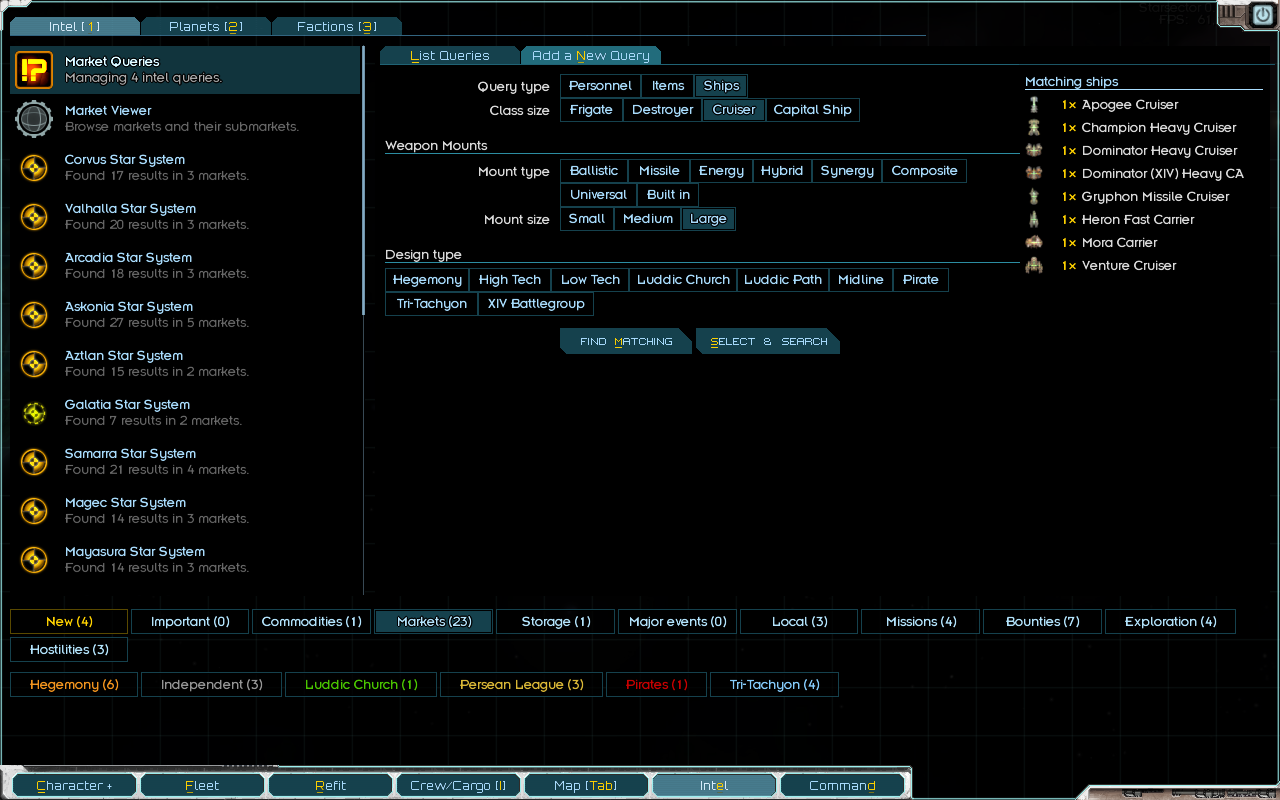
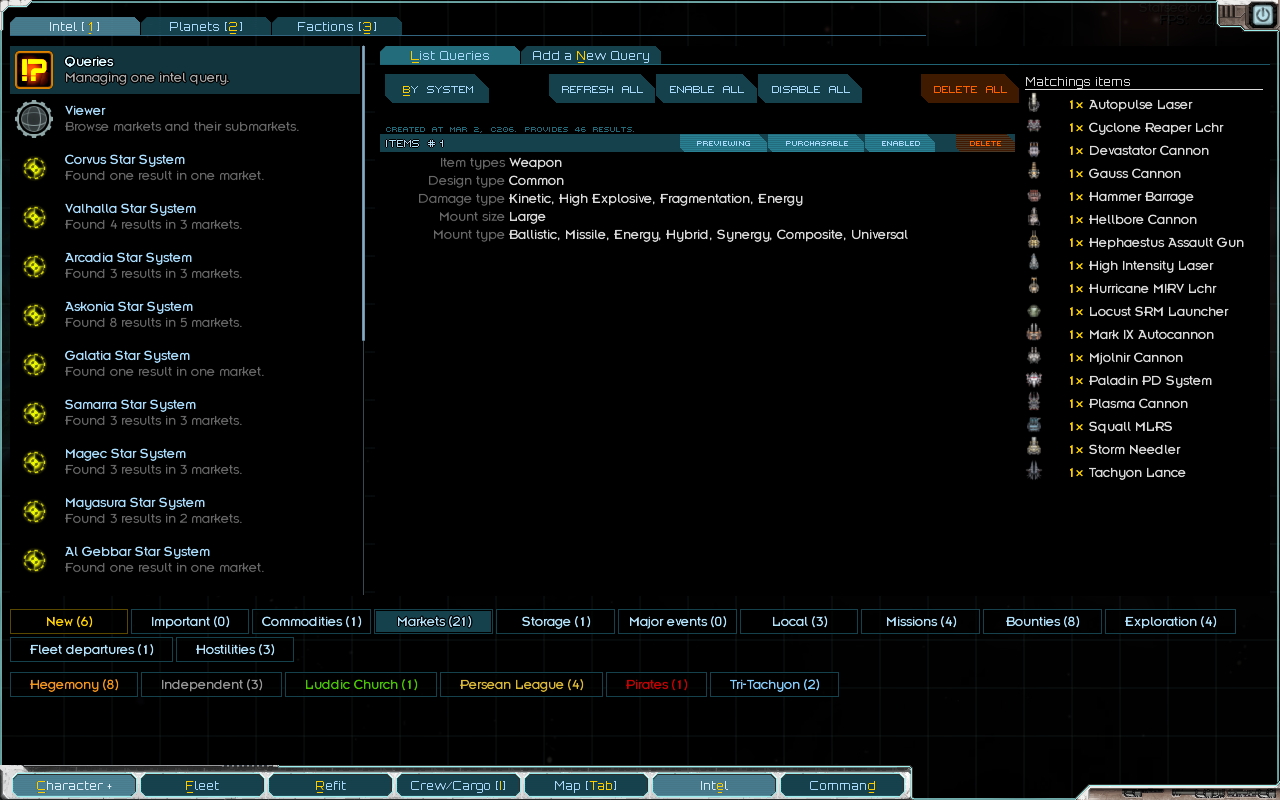
rc13

diff --git a/src/stelnet/board/query/view/list/QueryControls.java b/src/stelnet/board/query/view/list/QueryControls.java
@@ -1,17 +1,13 @@
 package stelnet.board.query.view.list;
 
-import com.fs.starfarer.api.ui.Alignment;
-import com.fs.starfarer.api.ui.PositionAPI;
 import com.fs.starfarer.api.ui.TooltipMakerAPI;
 import com.fs.starfarer.api.ui.UIComponentAPI;
-import com.fs.starfarer.api.util.Misc;
 import stelnet.board.query.Query;
-import uilib.Heading;
-import uilib.RenderableComponent;
+import stelnet.board.query.view.HeadingWithButtons;
 import uilib.UiConstants;
 import uilib.property.Size;
 
-public class QueryControls extends RenderableComponent {
+public class QueryControls extends HeadingWithButtons {
 
     private final Query query;
 
@@ -24,59 +20,20 @@ public class QueryControls extends RenderableComponent {
     @Override
     public void render(TooltipMakerAPI tooltip) {
         tooltip.setButtonFontVictor10();
-        renderHeading(tooltip);
-        overlapQueryHeading(tooltip);
-        UIComponentAPI deleteComponent = renderDelete(tooltip);
-        UIComponentAPI onOffComponent = renderButton(new ToggleButton(query), tooltip, deleteComponent);
-        UIComponentAPI purchasableComponent = renderButton(new PurchasableButton(query), tooltip, onOffComponent);
-        renderButton(new PreviewButton(query), tooltip, purchasableComponent);
+        renderHeading(tooltip, query.isEnabled());
+        overlapQueryHeading(tooltip, query.isEnabled(), query.getType() + " #" + query.getNumber());
+        UIComponentAPI deleteComponent = renderFirst(new DeleteButton(query), tooltip);
+        UIComponentAPI spacerComponent = addSpacer(tooltip, deleteComponent);
+        UIComponentAPI onOffComponent = renderNext(new ToggleButton(query), tooltip, spacerComponent);
+        UIComponentAPI purchasableComponent = renderNext(new PurchasableButton(query), tooltip, onOffComponent);
+        renderNext(new PreviewButton(query), tooltip, purchasableComponent);
         tooltip.setButtonFontDefault();
     }
 
-    private void renderHeading(TooltipMakerAPI tooltip) {
-        tooltip.setParaFontVictor14();
-        Heading heading = new Heading("", Misc.getBasePlayerColor(), Misc.getDarkPlayerColor());
-        if (!query.isEnabled()) {
-            heading.setForegroundColor(Misc.scaleAlpha(Misc.getBasePlayerColor(), 0.3f));
-            heading.setBackgroundColor(Misc.scaleAlpha(Misc.getDarkPlayerColor(), 0.2f));
-        }
-        heading.setAlignment(Alignment.LMID);
-        heading.render(tooltip);
-    }
-
-    private void overlapQueryHeading(TooltipMakerAPI tooltip) {
-        tooltip.setParaFontVictor14();
-        tooltip.setParaFontColor(Misc.getBrightPlayerColor());
-        if (!query.isEnabled()) {
-            tooltip.setParaFontColor(Misc.scaleAlpha(Misc.getBrightPlayerColor(), 0.2f));
-        }
-        tooltip.addPara(query.getType() + " #" + query.getNumber(), 0);
-        tooltip.getPrev().getPosition().setYAlignOffset(16);
-        tooltip.addSpacer(0);
-        tooltip.getPrev().getPosition().setYAlignOffset(-3);
-    }
-
-    private UIComponentAPI renderDelete(TooltipMakerAPI tooltip) {
-        ControlButton delete = new DeleteButton(query);
-        delete.render(tooltip);
-        UIComponentAPI deleteComponent = tooltip.getPrev();
-        PositionAPI deletePosition = deleteComponent.getPosition();
-        deletePosition.setXAlignOffset(getSize().getWidth() - deletePosition.getWidth() - 5);
-        deletePosition.setYAlignOffset(getSize().getHeight());
+    private UIComponentAPI addSpacer(TooltipMakerAPI tooltip, UIComponentAPI previousComponent) {
         tooltip.addSpacer(0);
         UIComponentAPI spacerComponent = tooltip.getPrev();
-        spacerComponent.getPosition().leftOfTop(deleteComponent, UiConstants.DEFAULT_SPACER);
+        spacerComponent.getPosition().leftOfTop(previousComponent, UiConstants.DEFAULT_SPACER);
         return spacerComponent;
-    }
-
-    private UIComponentAPI renderButton(
-        ControlButton button,
-        TooltipMakerAPI tooltip,
-        UIComponentAPI previousComponent
-    ) {
-        button.render(tooltip);
-        UIComponentAPI currentComponent = tooltip.getPrev();
-        currentComponent.getPosition().leftOfTop(previousComponent, 1);
-        return currentComponent;
     }
 }

diff --git a/src/stelnet/board/query/view/add/SectionHeader.java b/src/stelnet/board/query/view/add/SectionHeader.java
@@ -1,23 +1,19 @@
 package stelnet.board.query.view.add;
 
-import com.fs.starfarer.api.ui.Alignment;
-import com.fs.starfarer.api.ui.PositionAPI;
 import com.fs.starfarer.api.ui.TooltipMakerAPI;
 import com.fs.starfarer.api.ui.UIComponentAPI;
-import com.fs.starfarer.api.util.Misc;
 import lombok.RequiredArgsConstructor;
 import stelnet.CommonL10n;
+import stelnet.board.query.view.HeadingWithButtons;
 import stelnet.util.L10n;
-import uilib.Heading;
-import uilib.RenderableComponent;
 import uilib.UiConstants;
 import uilib.property.Size;
 
 @RequiredArgsConstructor
-public class SectionHeader extends RenderableComponent {
+public class SectionHeader extends HeadingWithButtons {
 
     private final FilteringButton[] buttons;
-    private final Heading heading;
+    private final String heading;
     private final boolean isEnabled;
 
     public SectionHeader(float width, Enum<?> label, boolean isEnabled) {
@@ -25,7 +21,7 @@ public class SectionHeader extends RenderableComponent {
     }
 
     public SectionHeader(float width, Enum<?> label, boolean isEnabled, FilteringButton[] buttons) {
-        this(buttons, getHeading(label, isEnabled), isEnabled);
+        this(buttons, L10n.get(label), isEnabled);
         setSize(new Size(width, UiConstants.DEFAULT_ROW_HEIGHT + UiConstants.DEFAULT_SPACER * 3));
         setWithScroller(false);
     }
@@ -34,34 +30,15 @@ public class SectionHeader extends RenderableComponent {
     public void render(TooltipMakerAPI tooltip) {
         tooltip.addSpacer(UiConstants.DEFAULT_SPACER);
         tooltip.addSpacer(UiConstants.DEFAULT_SPACER);
-        heading.render(tooltip);
+        renderHeading(tooltip, isEnabled);
+        overlapQueryHeading(tooltip, isEnabled, heading);
         if (buttons != null) {
-            tooltip.setButtonFontVictor10();
-            renderButtons(tooltip);
+            UIComponentAPI first = renderFirst(
+                new SelectDeselectButton(CommonL10n.NONE, isEnabled, false, buttons),
+                tooltip
+            );
+            renderNext(new SelectDeselectButton(CommonL10n.ALL, isEnabled, true, buttons), tooltip, first);
         }
         tooltip.addSpacer(UiConstants.DEFAULT_SPACER);
-    }
-
-    private void renderButtons(TooltipMakerAPI tooltip) {
-        SelectDeselectButton noneButton = new SelectDeselectButton(CommonL10n.NONE, isEnabled, false, buttons);
-        noneButton.render(tooltip);
-        UIComponentAPI noneComponent = tooltip.getPrev();
-        PositionAPI nonePosition = noneComponent.getPosition();
-        nonePosition.setXAlignOffset(getSize().getWidth() - nonePosition.getWidth() - 5);
-        nonePosition.setYAlignOffset(UiConstants.DEFAULT_ROW_HEIGHT);
-        SelectDeselectButton allButton = new SelectDeselectButton(CommonL10n.ALL, isEnabled, true, buttons);
-        allButton.render(tooltip);
-        tooltip.getPrev().getPosition().leftOfTop(noneComponent, 1);
-    }
-
-    private static Heading getHeading(Enum<?> label, boolean isEnabled) {
-        String headingTitle = " " + L10n.get(label);
-        Heading heading = new Heading(headingTitle, Misc.getBasePlayerColor(), Misc.getDarkPlayerColor());
-        heading.setAlignment(Alignment.LMID);
-        if (!isEnabled) {
-            heading.setForegroundColor(Misc.scaleAlpha(Misc.getBasePlayerColor(), 0.3f));
-            heading.setBackgroundColor(Misc.scaleAlpha(Misc.getDarkPlayerColor(), 0.2f));
-        }
-        return heading;
     }
 }

diff --git a/src/stelnet/board/query/view/HeadingWithButtons.java b/src/stelnet/board/query/view/HeadingWithButtons.java
@@ -1,0 +1,52 @@
+package stelnet.board.query.view;
+
+import com.fs.starfarer.api.ui.Alignment;
+import com.fs.starfarer.api.ui.PositionAPI;
+import com.fs.starfarer.api.ui.TooltipMakerAPI;
+import com.fs.starfarer.api.ui.UIComponentAPI;
+import com.fs.starfarer.api.util.Misc;
+import uilib.Button;
+import uilib.Heading;
+import uilib.RenderableComponent;
+import uilib.UiConstants;
+
+public abstract class HeadingWithButtons extends RenderableComponent {
+
+    protected void renderHeading(TooltipMakerAPI tooltip, boolean isEnabled) {
+        Heading heading = new Heading("", Misc.getBasePlayerColor(), Misc.getDarkPlayerColor());
+        if (!isEnabled) {
+            heading.setForegroundColor(Misc.scaleAlpha(Misc.getBasePlayerColor(), 0.3f));
+            heading.setBackgroundColor(Misc.scaleAlpha(Misc.getDarkPlayerColor(), 0.2f));
+        }
+        heading.setAlignment(Alignment.LMID);
+        heading.render(tooltip);
+    }
+
+    protected void overlapQueryHeading(TooltipMakerAPI tooltip, boolean isEnabled, String heading) {
+        tooltip.setParaFontVictor14();
+        tooltip.setParaFontColor(Misc.getBrightPlayerColor());
+        if (!isEnabled) {
+            tooltip.setParaFontColor(Misc.scaleAlpha(Misc.getBrightPlayerColor(), 0.2f));
+        }
+        tooltip.addPara(heading, 0);
+        tooltip.getPrev().getPosition().setYAlignOffset(16);
+        tooltip.addSpacer(0);
+        tooltip.getPrev().getPosition().setYAlignOffset(-3);
+    }
+
+    protected UIComponentAPI renderFirst(Button delete, TooltipMakerAPI tooltip) {
+        delete.render(tooltip);
+        UIComponentAPI deleteComponent = tooltip.getPrev();
+        PositionAPI deletePosition = deleteComponent.getPosition();
+        deletePosition.setXAlignOffset(getSize().getWidth() - deletePosition.getWidth() - 5);
+        deletePosition.setYAlignOffset(UiConstants.DEFAULT_ROW_HEIGHT);
+        return deleteComponent;
+    }
+
+    protected UIComponentAPI renderNext(Button button, TooltipMakerAPI tooltip, UIComponentAPI previousComponent) {
+        button.render(tooltip);
+        UIComponentAPI currentComponent = tooltip.getPrev();
+        currentComponent.getPosition().leftOfTop(previousComponent, 1);
+        return currentComponent;
+    }
+}

diff --git a/src/stelnet/board/query/view/add/SelectDeselectButton.java b/src/stelnet/board/query/view/add/SelectDeselectButton.java
@@ -2,6 +2,8 @@ package stelnet.board.query.view.add;
 
 import com.fs.starfarer.api.ui.CutStyle;
 import com.fs.starfarer.api.ui.IntelUIAPI;
+import com.fs.starfarer.api.ui.TooltipMakerAPI;
+import com.fs.starfarer.api.util.Misc;
 import stelnet.util.L10n;
 import uilib.Button;
 import uilib.EventHandler;
@@ -29,5 +31,16 @@ public class SelectDeselectButton extends Button {
                 }
             }
         );
+        if (!isEnabled) {
+            setTextColor(Misc.scaleAlpha(getTextColor(), 0));
+            setBackgroundColor(Misc.scaleAlpha(getBackgroundColor(), 0));
+        }
+    }
+
+    @Override
+    public void render(TooltipMakerAPI tooltip) {
+        tooltip.setButtonFontVictor10();
+        super.render(tooltip);
+        tooltip.setButtonFontDefault();
     }
 }

diff --git a/src/stelnet/board/query/view/add/ButtonGroup.java b/src/stelnet/board/query/view/add/ButtonGroup.java
@@ -24,8 +24,8 @@ public class ButtonGroup extends HorizontalViewContainer {
 
     public ButtonGroup(SizeHelper helper, FilteringButton[] buttons, boolean isEnabled) {
         super();
-        prepareButtons(buttons, isEnabled);
         List<Button> filteredButtons = getFilteredButtons(buttons);
+        prepareButtons(buttons, isEnabled);
         addGroup(helper.getGroupAndTextWidth(), filteredButtons);
     }
 
